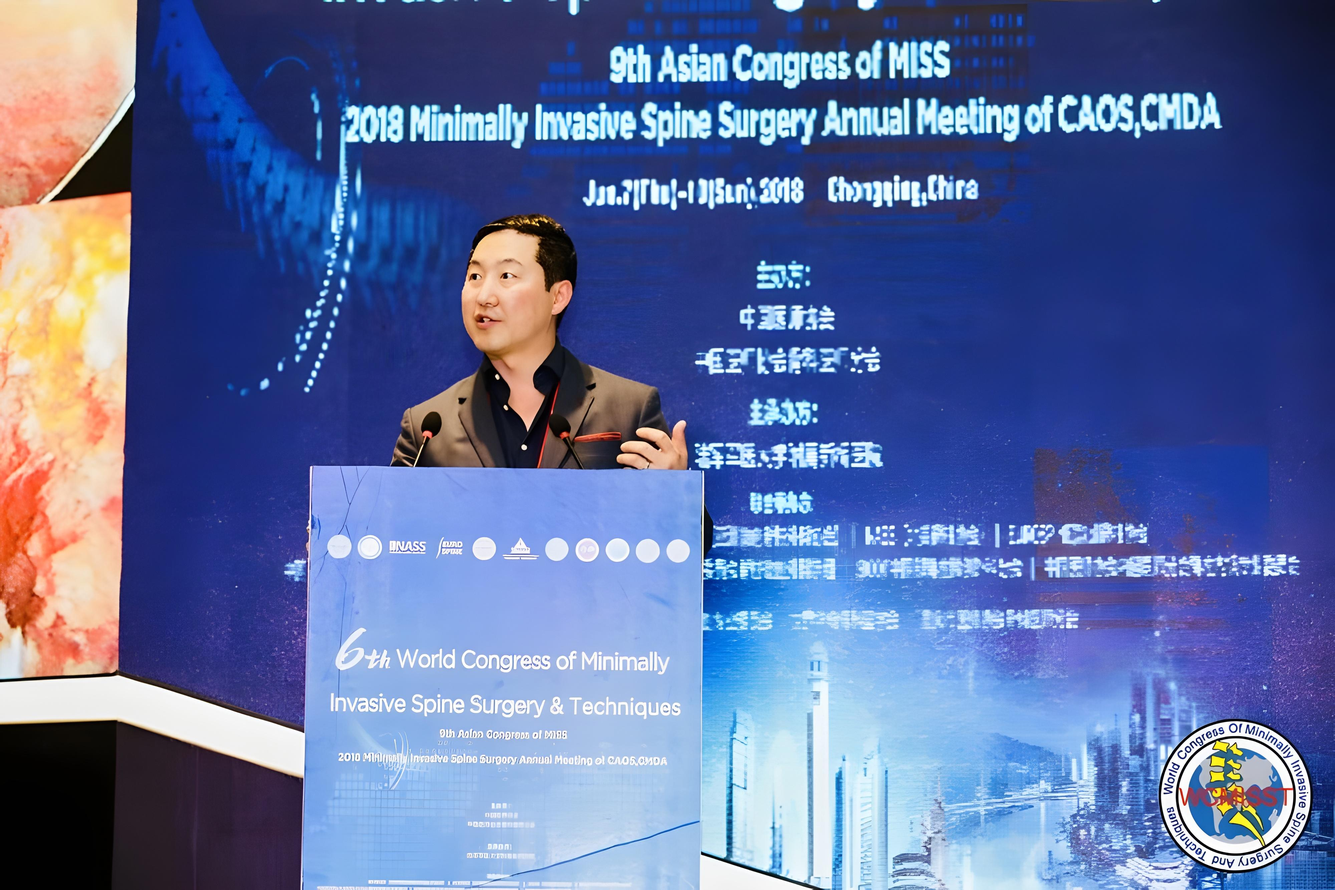
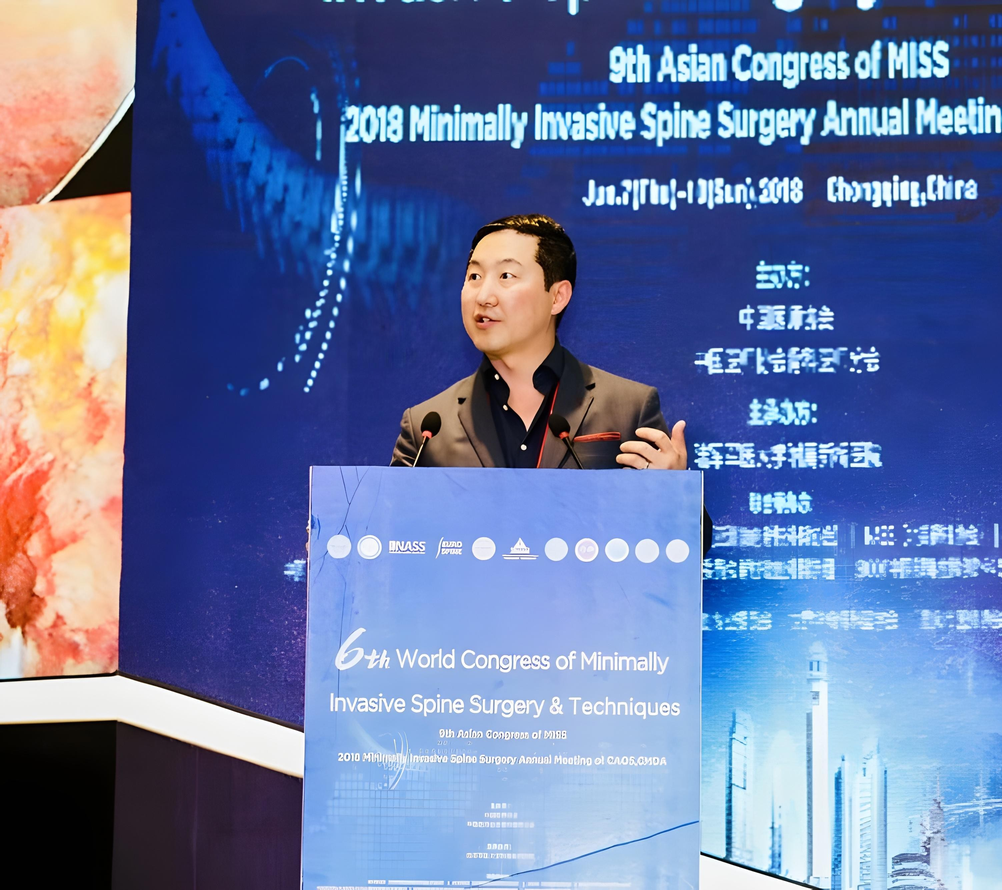
image in the hero section edited

diff --git a/src/components/sections/Hero.tsx b/src/components/sections/Hero.tsx
@@ -108,7 +108,7 @@ export function Hero() {
                                 src="/jef2.jpg"
                                 alt="Dr. Jeffrey Roh - Founder"
                                 fill
-                                className="object-cover object-center opacity-30 transition-opacity duration-700 ease-in-out hover:opacity-70 grayscale hover:grayscale-0"
+                                className="object-cover object-left opacity-30 transition-opacity duration-700 ease-in-out hover:opacity-70 grayscale hover:grayscale-0"
                                 priority
                                 sizes="(max-width: 768px) 100vw, 50vw"
                             />
